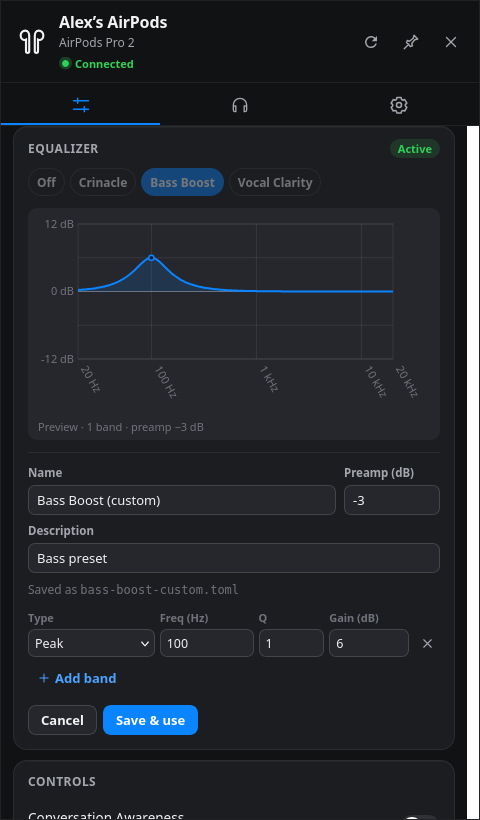
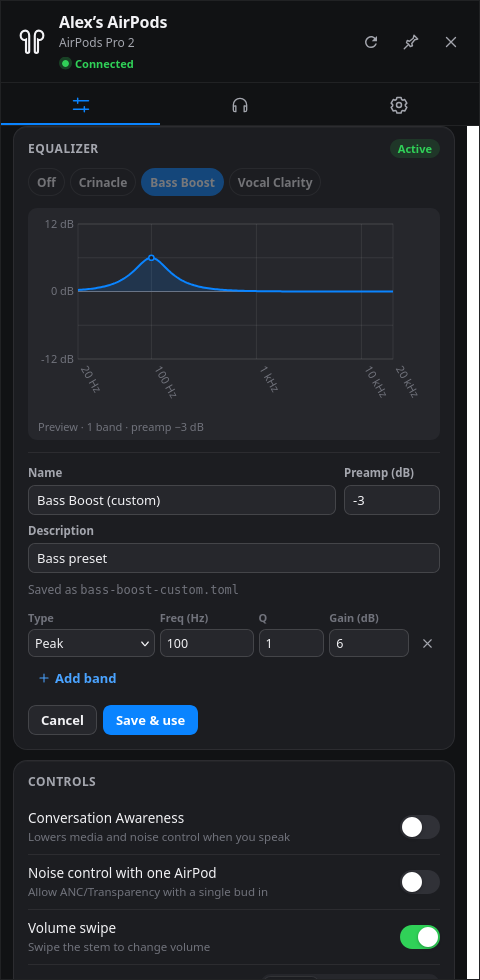
Match EQ screenshot dimensions and refresh PR description

diff --git a/docs/pull-request.md b/docs/pull-request.md
@@ -1,18 +1,22 @@
-# Add a native Plasma widget and installable Linux AppImage
+# A little love for AirPods on Linux: native KDE widget + Tauri AppImage
 
-Adds a KDE Plasma dock widget and packages the general Tauri UI as an installable,
-updatable AppImage; both use the existing daemon.
+Hi! I am Niccolò Nicolosi, a CS engineer and PhD candidate doing research on compiler technologies at Politecnico di Milano. I came across your AirPods Helper project while searching for better integration for AirPods on Linux, and I really liked it! Even more than librepods, which is what I started with, because I found your solution to be more stable and refined on Linux.
 
-- KDE: themed battery/ANC controls, EQ editing, device management, settings and a battery-ring icon.
-- Tauri: resizable, pinnable three-tab panel with matching controls, automatic preferred-device saving and dismissible errors.
-- Backend/packaging: validated BlueZ renaming with shared D-Bus updates, Arch KDE recipe, AppImage installer/update metadata, release workflow and tests.
+Because I look forward to using it as my daily driver on my KDE Arch installation, I decided to have some fun and add a curated native widget for it, with the help of Codex GPT-6.1-Sol on high reasoning to implement it (it's a free-time project, after all). I also added a way to produce an AppImage, with metadata for it to be updatable, to facilitate distribution of your project with the original Tauri UI for desktops other than KDE. While at it, I also made the Tauri UI a bit nicer and consistent with its Plasma widget counterpart.
 
-Validated: Rust workspace, Tauri, frontend, installer and KDE offscreen tests;
-local AppImage build/checksum. Live audio tests, KDE D-Bus integration, clean-distro
-installation and the GitHub release workflow still need external validation.
+Hope you like it and welcome the additions! This project has the potential to be the standard AirPods integration for Linux, in my humble opinion.
 
-<details>
-<summary>Screenshots: KDE light/dark and Tauri</summary>
+A bullet list of the main changes below:
+
+- Native KDE Plasma dock widget with theme integration, battery levels, listening modes, an EQ editor and a battery-ring icon.
+- Resizable, pinnable Tauri panel with Controls, Devices and Settings tabs, matching controls and a battery-ring tray icon.
+- Device renaming, automatically saved preferred-device selection, About details and dismissible error messages in both UIs.
+- AppImage packaging with daemon setup, update metadata and a release workflow, plus an Arch packaging recipe for KDE.
+- Tests and concise installation and distribution documentation.
+
+Validated with Rust workspace, Tauri, frontend, installer and KDE offscreen tests, plus a local AppImage build/checksum. Live audio tests, KDE D-Bus integration, clean-distro installation and the GitHub release workflow still need external validation.
+
+Screenshots below:
 
 Demo device data. KDE uses the shared QML panel; Tauri uses its real frontend in
 Firefox. See [capture instructions](screenshots/README.md).
@@ -29,5 +33,3 @@ Tray icons:
 | KDE light | KDE dark | Tauri |
 | --- | --- | --- |
 | <img src="screenshots/kde-tray.png" width="80" alt="KDE light tray icon"> | <img src="screenshots/kde-dark-tray.png" width="80" alt="KDE dark tray icon"> | <img src="screenshots/tauri-tray.png" width="80" alt="Tauri tray icon"> |
-
-</details>
